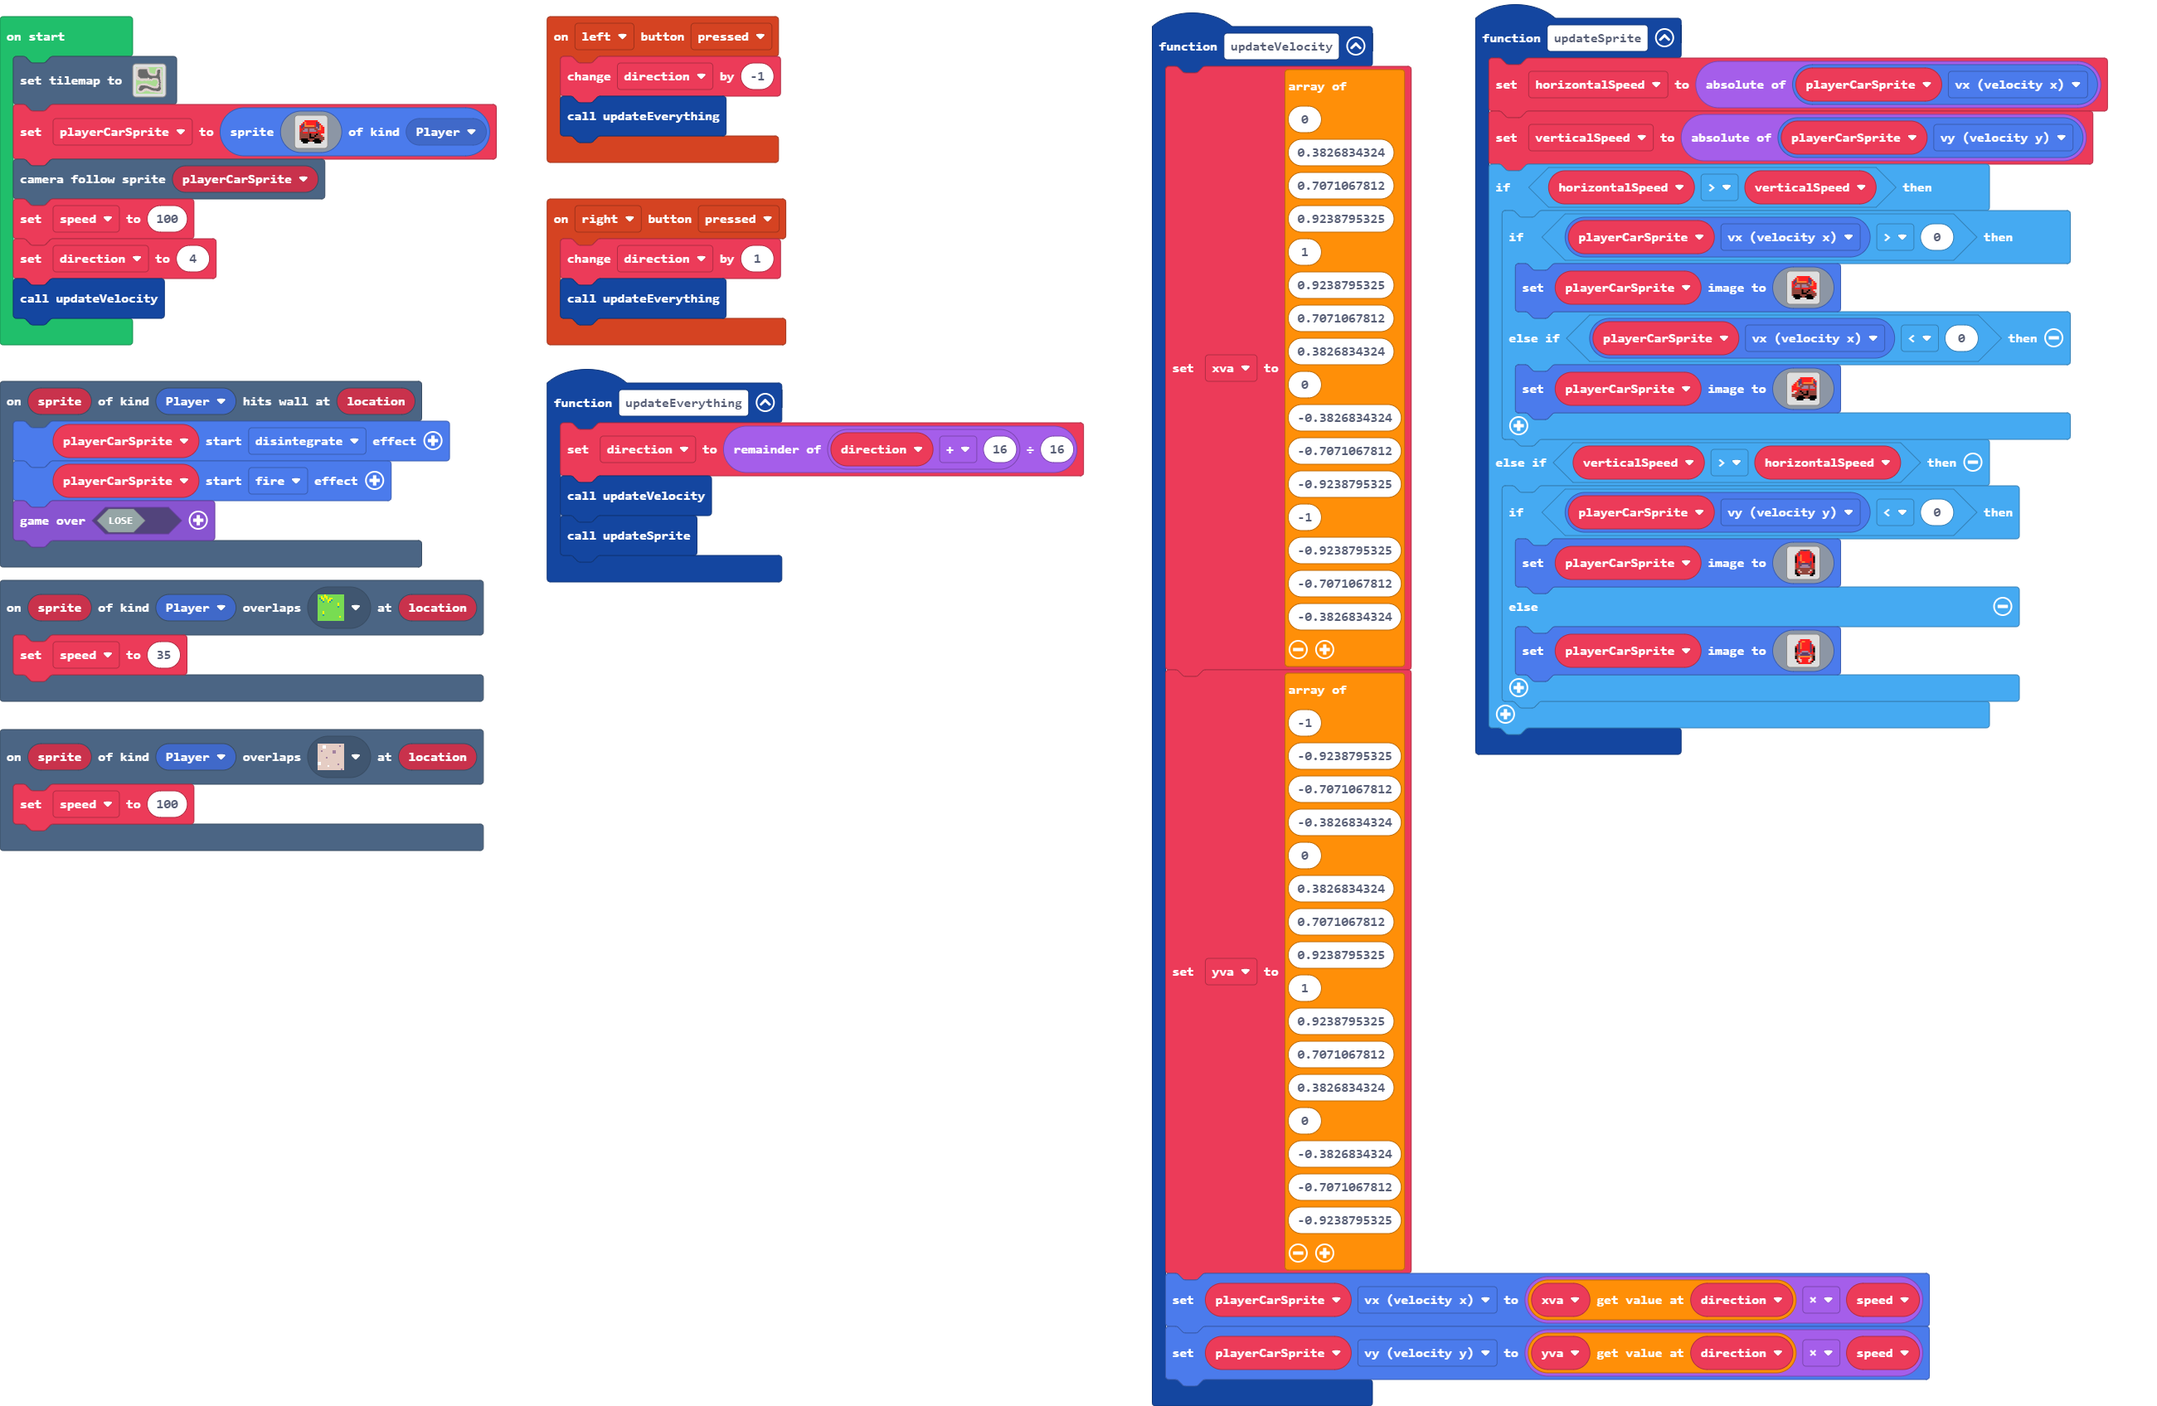
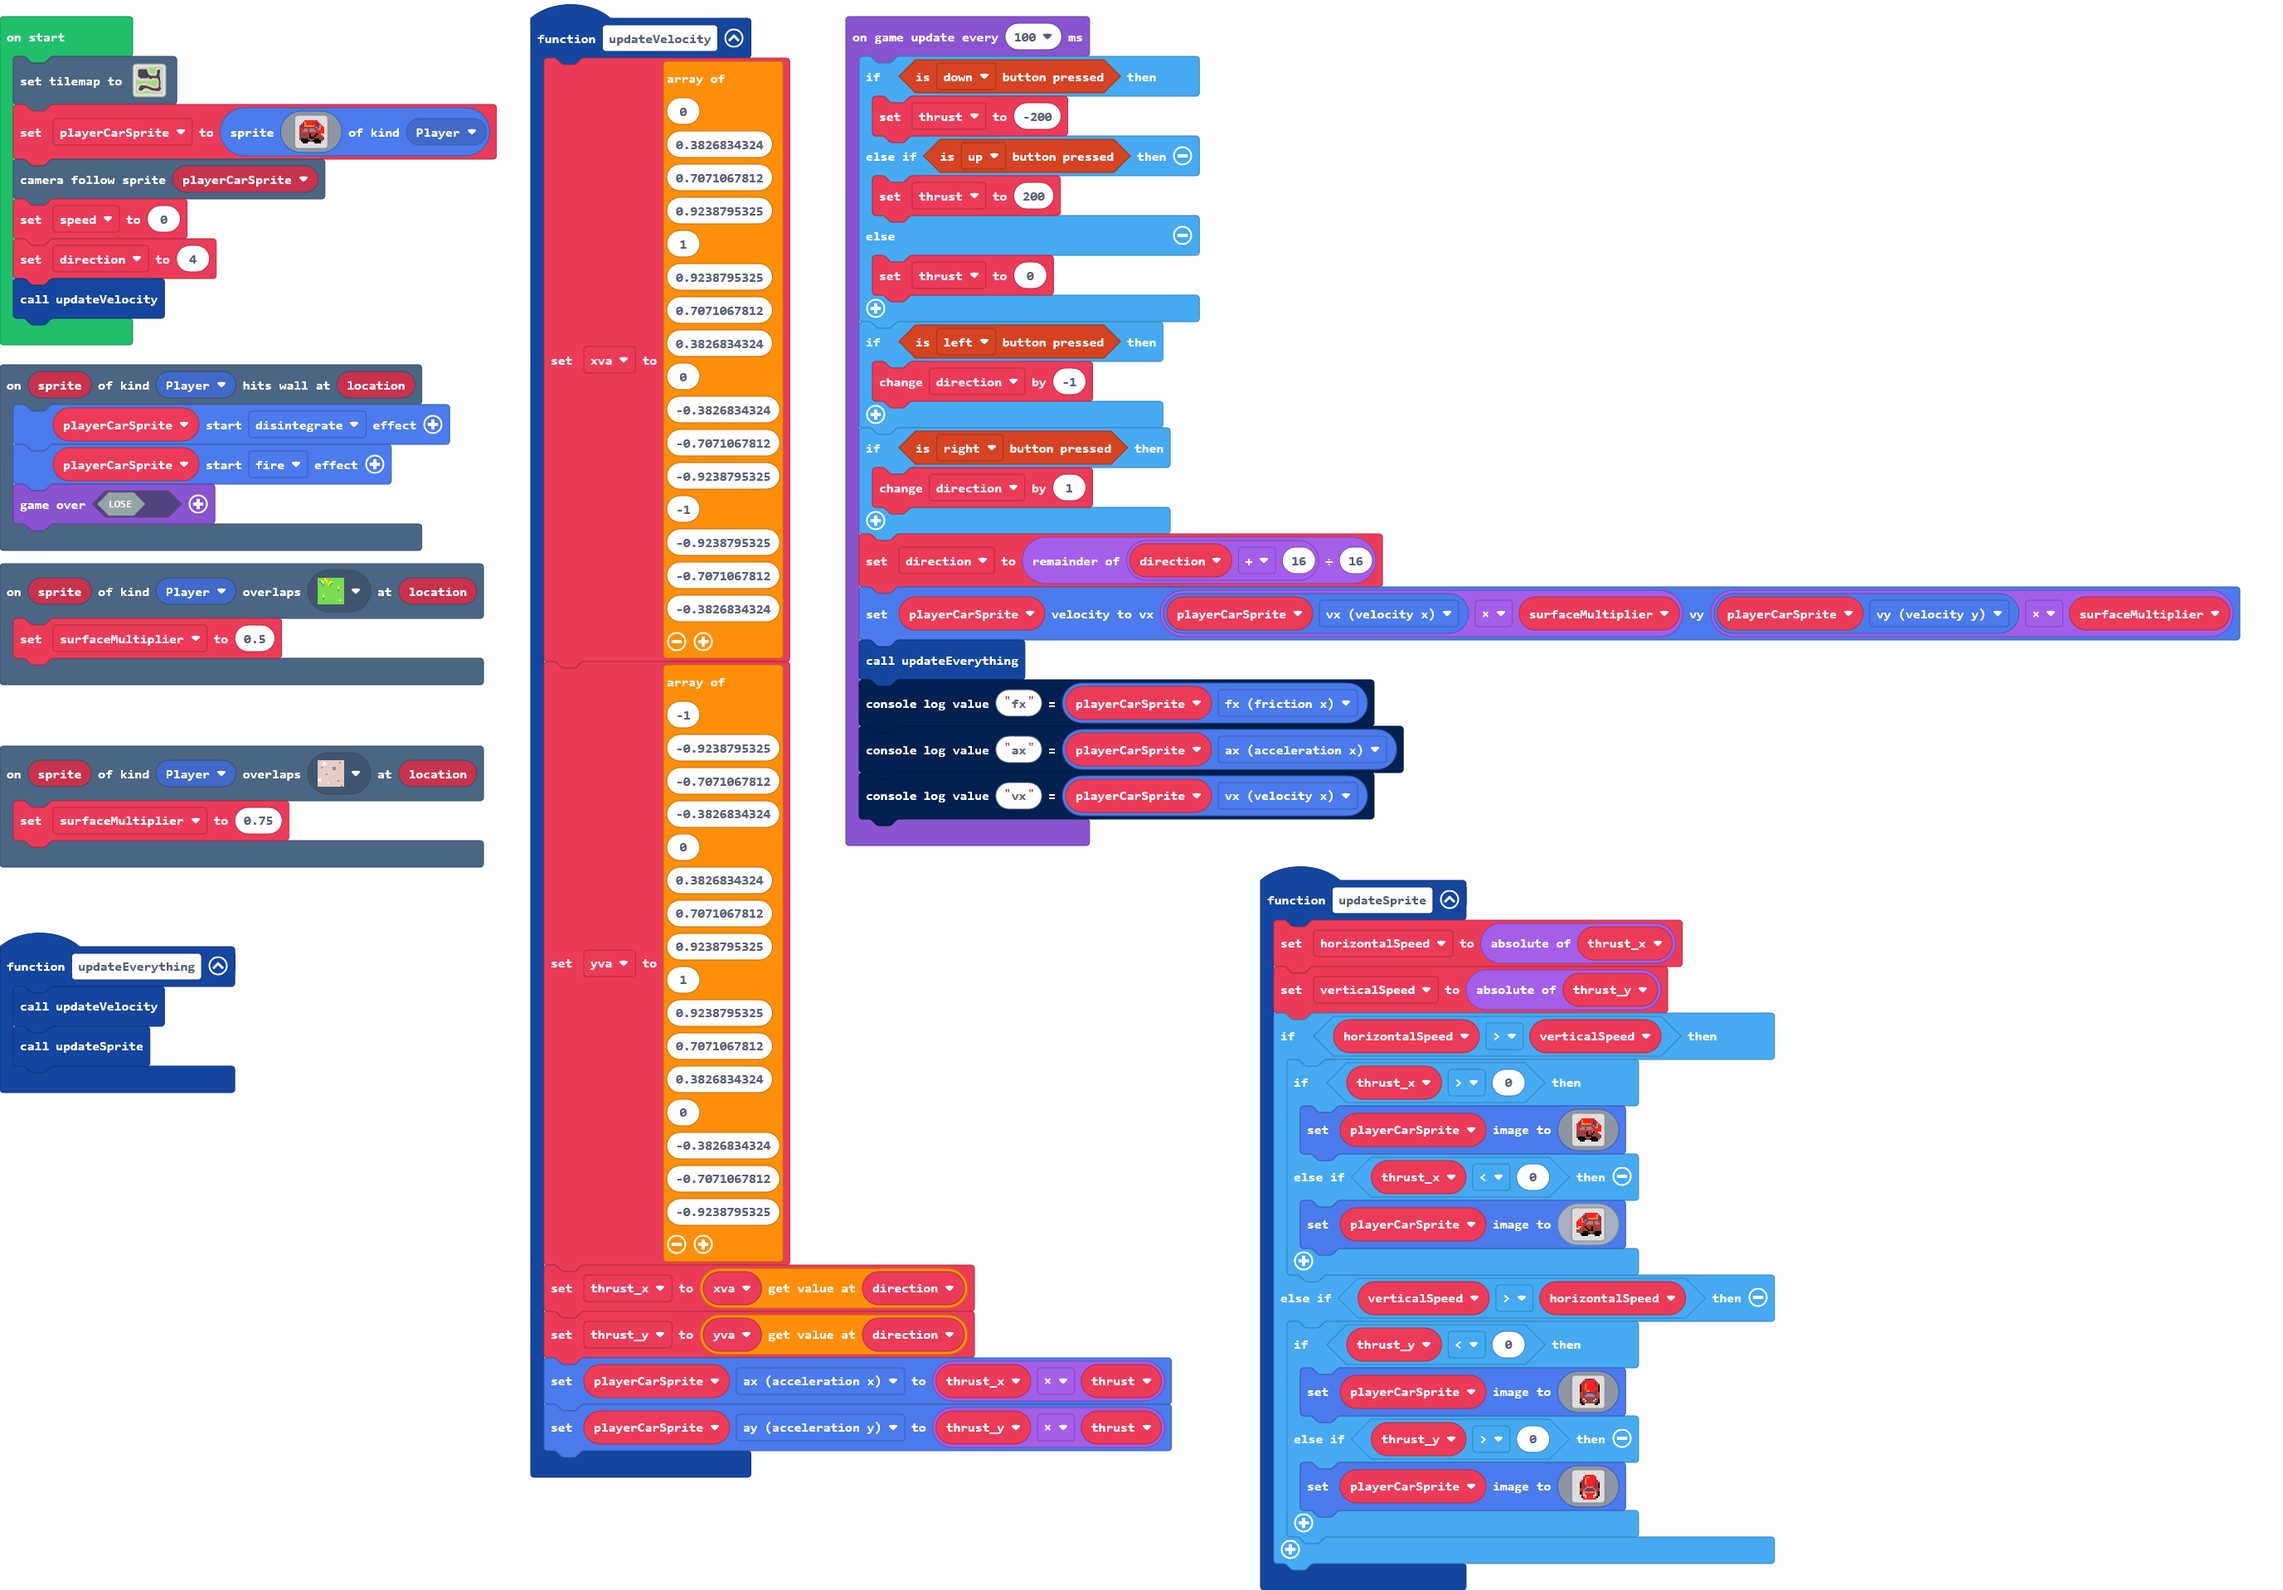
Master (#1)
* Update main.blocks, main.ts, images.g.jres, images.g.ts

* Spaceship physics

* Update main.blocks

diff --git a/images.g.ts b/images.g.ts
@@ -3,6 +3,96 @@ namespace myImages {
 
     helpers._registerFactory("image", function(name: string) {
         switch(helpers.stringTrim(name)) {
+            case "image6":return img`
+. . . . . . . . . . . . . . . . 
+. . . . 2 2 2 2 2 2 2 2 . . . . 
+. . . 2 4 2 2 2 2 2 2 c 2 . . . 
+. . 2 c 4 2 2 2 2 2 2 c c 2 . . 
+. 2 c c 4 4 4 4 4 4 2 c c 4 2 d 
+. 2 c 2 e e e e e e e b c 4 2 2 
+. 2 2 e b b e b b b e e b 4 2 2 
+. 2 e b b b e b b b b e 2 2 2 2 
+. e e 2 2 2 e 2 2 2 2 2 e 2 2 2 
+. e e e e e e f e e e f e 2 d d 
+. e e e e e e f e e f e e e 2 d 
+. e e e e e e f f f e e e e e e 
+. e f f f f e e e e f f f e e e 
+. . f f f f f e e f f f f f e . 
+. . . f f f . . . . f f f f . . 
+. . . . . . . . . . . . . . . . 
+`;
+            case "image7":return img`
+. . . . . . . . . . . . . . . . 
+. . . . 2 2 2 2 2 2 2 2 . . . . 
+. . . 2 4 2 2 2 2 2 2 c 2 . . . 
+. . 2 c 4 2 2 2 2 2 2 c c 2 . . 
+. 2 c c 4 4 4 4 4 4 2 c c 4 2 d 
+. 2 c 2 e e e e e e e b c 4 2 2 
+. 2 2 e b b e b b b e e b 4 2 2 
+. 2 e b b b e b b b b e 2 2 2 2 
+. e e 2 2 2 e 2 2 2 2 2 e 2 2 2 
+. e e e e e e f e e e f e 2 d d 
+. e e e e e e f e e f e e e 2 d 
+. e e e e e e f f f e e e e e e 
+. e f f f f e e e e f f f e e e 
+. . f f f f f e e f f f f f e . 
+. . . f f f . . . . f f f f . . 
+. . . . . . . . . . . . . . . . 
+`;
+            case "image8":return img`
+. . . . . . . . . . . . . . . . 
+. . . . . . 2 2 2 2 2 2 2 2 . . 
+. . . . . 2 c 2 2 2 2 2 2 4 2 . 
+. . . . 2 c c 2 2 2 2 2 2 4 c 2 
+. . d 2 4 c c 2 4 4 4 4 4 4 c c 
+. d 2 2 4 c b e e e e e e e 2 c 
+. 2 2 2 4 b e e b b b e b b e 2 
+. 2 2 2 2 2 e b b b b e b b b e 
+. 2 2 2 2 e 2 2 2 2 2 e 2 2 2 e 
+. 2 d d 2 e f e e e f e e e e e 
+. d d 2 e e e f e e f e e e e e 
+. e e e e e e e f f f e e e e e 
+. e e e e f f f e e e e f f f f 
+. . . e f f f f f e e f f f f f 
+. . . . f f f f . . . . f f f . 
+. . . . . . . . . . . . . . . . 
+`;
+            case "image9":return img`
+. . . . . . e e c c e e . . . . 
+. . . . . e 2 2 2 2 2 2 e . . . 
+. . . . 2 c 2 2 2 2 2 2 c 2 . . 
+. . . e 2 c 4 2 2 2 2 2 c 2 e . 
+. . . f 2 2 4 2 2 2 2 2 c 2 f . 
+. . . f 2 2 4 2 2 2 2 2 2 2 f . 
+. . . f 2 2 4 2 2 2 2 2 2 2 f . 
+. . . f 2 c 2 4 4 2 2 2 c 2 f . 
+. . . e 2 c e c c c c e c 2 e . 
+. . . e 2 e c b b b b c e 2 e . 
+. . . e 2 e b b b b b b e 2 e . 
+. . . e e e e e e e e e e e e . 
+. . . f e d e e e e e e d e f . 
+. . . f e 2 d e e e e d 2 e f . 
+. . . f f e e e e e e e e f f . 
+. . . . f f . . . . . . f f . . 
+`;
+            case "image10":return img`
+. . . . . . . . . . . . . . . . 
+. . . . . . 2 2 2 2 2 2 . . . . 
+. . . . . 2 2 4 4 2 2 2 2 . . . 
+. . . . . c 4 2 2 2 2 2 c . . . 
+. . . . 2 c 4 2 2 2 2 2 c 2 . . 
+. . . e 2 c 4 2 2 2 2 2 c 2 e . 
+. . . f 2 c 4 2 2 2 2 2 c 2 f . 
+. . . f e c 2 2 2 2 2 2 c e f . 
+. . . f 2 c 2 b b b b 2 c 2 f . 
+. . . e 2 2 b c c c c b 2 2 e . 
+. . . e e b c c c c c c b e e . 
+. . . f e 4 4 4 4 4 4 4 4 e f . 
+. . . f e d 2 2 2 2 2 2 d e f . 
+. . . . 2 d d 2 2 2 2 d d 2 f . 
+. . . . f 2 d 2 2 2 2 d 2 f . . 
+. . . . . e 2 2 2 2 2 2 e . . . 
+`;
             case "image1":return img`
 . . . . . . . . . . . . . . . . 
 . . . . 2 2 2 2 2 2 2 2 . . . . 
@@ -93,7 +183,7 @@ namespace myImages {
 . . . . f 2 d 2 2 2 2 d 2 f . . 
 . . . . . e 2 2 2 2 2 2 e . . . 
 `;
-            case "image6":return img`
+            case "image11":return img`
 . . . . . . . . . . . . . . . . 
 . . . . 2 2 2 2 2 2 2 2 . . . . 
 . . . 2 4 2 2 2 2 2 2 c 2 . . . 
@@ -111,7 +201,7 @@ namespace myImages {
 . . . f f f . . . . f f f f . . 
 . . . . . . . . . . . . . . . . 
 `;
-            case "image7":return img`
+            case "image12":return img`
 . . . . . . . . . . . . . . . . 
 . . . . 2 2 2 2 2 2 2 2 . . . . 
 . . . 2 4 2 2 2 2 2 2 c 2 . . . 
@@ -129,7 +219,7 @@ namespace myImages {
 . . . f f f . . . . f f f f . . 
 . . . . . . . . . . . . . . . . 
 `;
-            case "image8":return img`
+            case "image13":return img`
 . . . . . . . . . . . . . . . . 
 . . . . . . 2 2 2 2 2 2 2 2 . . 
 . . . . . 2 c 2 2 2 2 2 2 4 2 . 
@@ -147,7 +237,7 @@ namespace myImages {
 . . . . f f f f . . . . f f f . 
 . . . . . . . . . . . . . . . . 
 `;
-            case "image9":return img`
+            case "image14":return img`
 . . . . . . e e c c e e . . . . 
 . . . . . e 2 2 2 2 2 2 e . . . 
 . . . . 2 c 2 2 2 2 2 2 c 2 . . 
@@ -165,7 +255,7 @@ namespace myImages {
 . . . f f e e e e e e e e f f . 
 . . . . f f . . . . . . f f . . 
 `;
-            case "image10":return img`
+            case "image15":return img`
 . . . . . . . . . . . . . . . . 
 . . . . . . 2 2 2 2 2 2 . . . . 
 . . . . . 2 2 4 4 2 2 2 2 . . . 
@@ -182,6 +272,114 @@ namespace myImages {
 . . . . 2 d d 2 2 2 2 d d 2 f . 
 . . . . f 2 d 2 2 2 2 d 2 f . . 
 . . . . . e 2 2 2 2 2 2 e . . . 
+`;
+            case "image16":return img`
+. . . . . . . . . . . . . . . . 
+. . . . 2 2 2 2 2 2 2 2 . . . . 
+. . . 2 4 2 2 2 2 2 2 c 2 . . . 
+. . 2 c 4 2 2 2 2 2 2 c c 2 . . 
+. 2 c c 4 4 4 4 4 4 2 c c 4 2 d 
+. 2 c 2 e e e e e e e b c 4 2 2 
+. 2 2 e b b e b b b e e b 4 2 2 
+. 2 e b b b e b b b b e 2 2 2 2 
+. e e 2 2 2 e 2 2 2 2 2 e 2 2 2 
+. e e e e e e f e e e f e 2 d d 
+. e e e e e e f e e f e e e 2 d 
+. e e e e e e f f f e e e e e e 
+. e f f f f e e e e f f f e e e 
+. . f f f f f e e f f f f f e . 
+. . . f f f . . . . f f f f . . 
+. . . . . . . . . . . . . . . . 
+`;
+            case "image17":return img`
+. . . . . . . . . . . . . . . . 
+. . . . 2 2 2 2 2 2 2 2 . . . . 
+. . . 2 4 2 2 2 2 2 2 c 2 . . . 
+. . 2 c 4 2 2 2 2 2 2 c c 2 . . 
+. 2 c c 4 4 4 4 4 4 2 c c 4 2 d 
+. 2 c 2 e e e e e e e b c 4 2 2 
+. 2 2 e b b e b b b e e b 4 2 2 
+. 2 e b b b e b b b b e 2 2 2 2 
+. e e 2 2 2 e 2 2 2 2 2 e 2 2 2 
+. e e e e e e f e e e f e 2 d d 
+. e e e e e e f e e f e e e 2 d 
+. e e e e e e f f f e e e e e e 
+. e f f f f e e e e f f f e e e 
+. . f f f f f e e f f f f f e . 
+. . . f f f . . . . f f f f . . 
+. . . . . . . . . . . . . . . . 
+`;
+            case "image19":return img`
+. . . . . . e e c c e e . . . . 
+. . . . . e 2 2 2 2 2 2 e . . . 
+. . . . 2 c 2 2 2 2 2 2 c 2 . . 
+. . . e 2 c 4 2 2 2 2 2 c 2 e . 
+. . . f 2 2 4 2 2 2 2 2 c 2 f . 
+. . . f 2 2 4 2 2 2 2 2 2 2 f . 
+. . . f 2 2 4 2 2 2 2 2 2 2 f . 
+. . . f 2 c 2 4 4 2 2 2 c 2 f . 
+. . . e 2 c e c c c c e c 2 e . 
+. . . e 2 e c b b b b c e 2 e . 
+. . . e 2 e b b b b b b e 2 e . 
+. . . e e e e e e e e e e e e . 
+. . . f e d e e e e e e d e f . 
+. . . f e 2 d e e e e d 2 e f . 
+. . . f f e e e e e e e e f f . 
+. . . . f f . . . . . . f f . . 
+`;
+            case "image20":return img`
+. . . . . . . . . . . . . . . . 
+. . . . . . 2 2 2 2 2 2 . . . . 
+. . . . . 2 2 4 4 2 2 2 2 . . . 
+. . . . . c 4 2 2 2 2 2 c . . . 
+. . . . 2 c 4 2 2 2 2 2 c 2 . . 
+. . . e 2 c 4 2 2 2 2 2 c 2 e . 
+. . . f 2 c 4 2 2 2 2 2 c 2 f . 
+. . . f e c 2 2 2 2 2 2 c e f . 
+. . . f 2 c 2 b b b b 2 c 2 f . 
+. . . e 2 2 b c c c c b 2 2 e . 
+. . . e e b c c c c c c b e e . 
+. . . f e 4 4 4 4 4 4 4 4 e f . 
+. . . f e d 2 2 2 2 2 2 d e f . 
+. . . . 2 d d 2 2 2 2 d d 2 f . 
+. . . . f 2 d 2 2 2 2 d 2 f . . 
+. . . . . e 2 2 2 2 2 2 e . . . 
+`;
+            case "image21":return img`
+. . . . . . . . . . . . . . . . 
+. . . . . . 2 2 2 2 2 2 2 2 . . 
+. . . . . 2 c 2 2 2 2 2 2 4 2 . 
+. . . . 2 c c 2 2 2 2 2 2 4 c 2 
+. . d 2 4 c c 2 4 4 4 4 4 4 c c 
+. d 2 2 4 c b e e e e e e e 2 c 
+. 2 2 2 4 b e e b b b e b b e 2 
+. 2 2 2 2 2 e b b b b e b b b e 
+. 2 2 2 2 e 2 2 2 2 2 e 2 2 2 e 
+. 2 d d 2 e f e e e f e e e e e 
+. d d 2 e e e f e e f e e e e e 
+. e e e e e e e f f f e e e e e 
+. e e e e f f f e e e e f f f f 
+. . . e f f f f f e e f f f f f 
+. . . . f f f f . . . . f f f . 
+. . . . . . . . . . . . . . . . 
+`;
+            case "image18":return img`
+. . . . . . . . . . . . . . . . 
+. . . . . . 2 2 2 2 2 2 2 2 . . 
+. . . . . 2 c 2 2 2 2 2 2 4 2 . 
+. . . . 2 c c 2 2 2 2 2 2 4 c 2 
+. . d 2 4 c c 2 4 4 4 4 4 4 c c 
+. d 2 2 4 c b e e e e e e e 2 c 
+. 2 2 2 4 b e e b b b e b b e 2 
+. 2 2 2 2 2 e b b b b e b b b e 
+. 2 2 2 2 e 2 2 2 2 2 e 2 2 2 e 
+. 2 d d 2 e f e e e f e e e e e 
+. d d 2 e e e f e e f e e e e e 
+. e e e e e e e f f f e e e e e 
+. e e e e f f f e e e e f f f f 
+. . . e f f f f f e e f f f f f 
+. . . . f f f f . . . . f f f . 
+. . . . . . . . . . . . . . . . 
 `;
         }
         return null;

diff --git a/main.ts b/main.ts
@@ -3,10 +3,6 @@ scene.onHitWall(SpriteKind.Player, function (sprite, location) {
     playerCarSprite.startEffect(effects.fire)
     game.over(false)
 })
-controller.left.onEvent(ControllerButtonEvent.Pressed, function () {
-    direction += -1
-    updateEverything()
-})
 function updateVelocity () {
     xva = [
     0,
@@ -44,21 +40,19 @@ function updateVelocity () {
     -0.7071067812,
     -0.9238795325
     ]
-    playerCarSprite.vx = xva[direction] * speed
-    playerCarSprite.vy = yva[direction] * speed
+    thrust_x = xva[direction]
+    thrust_y = yva[direction]
+    playerCarSprite.ax = thrust_x * thrust
+    playerCarSprite.ay = thrust_y * thrust
 }
-controller.right.onEvent(ControllerButtonEvent.Pressed, function () {
-    direction += 1
-    updateEverything()
-})
 scene.onOverlapTile(SpriteKind.Player, sprites.castle.tilePath5, function (sprite, location) {
-    speed = 100
+    surfaceMultiplier = 0.75
 })
 function updateSprite () {
-    horizontalSpeed = Math.abs(playerCarSprite.vx)
-    verticalSpeed = Math.abs(playerCarSprite.vy)
+    horizontalSpeed = Math.abs(thrust_x)
+    verticalSpeed = Math.abs(thrust_y)
     if (horizontalSpeed > verticalSpeed) {
-        if (playerCarSprite.vx > 0) {
+        if (thrust_x > 0) {
             playerCarSprite.setImage(img`
                 . . . . . . . . . . . . . . . . 
                 . . . . 2 2 2 2 2 2 2 2 . . . . 
@@ -77,7 +71,7 @@ function updateSprite () {
                 . . . f f f . . . . f f f f . . 
                 . . . . . . . . . . . . . . . . 
                 `)
-        } else if (playerCarSprite.vx < 0) {
+        } else if (thrust_x < 0) {
             playerCarSprite.setImage(img`
                 . . . . . . . . . . . . . . . . 
                 . . . . . . 2 2 2 2 2 2 2 2 . . 
@@ -98,7 +92,7 @@ function updateSprite () {
                 `)
         }
     } else if (verticalSpeed > horizontalSpeed) {
-        if (playerCarSprite.vy < 0) {
+        if (thrust_y < 0) {
             playerCarSprite.setImage(img`
                 . . . . . . e e c c e e . . . . 
                 . . . . . e 2 2 2 2 2 2 e . . . 
@@ -117,7 +111,7 @@ function updateSprite () {
                 . . . f f e e e e e e e e f f . 
                 . . . . f f . . . . . . f f . . 
                 `)
-        } else {
+        } else if (thrust_y > 0) {
             playerCarSprite.setImage(img`
                 . . . . . . . . . . . . . . . . 
                 . . . . . . 2 2 2 2 2 2 . . . . 
@@ -140,19 +134,21 @@ function updateSprite () {
     }
 }
 scene.onOverlapTile(SpriteKind.Player, sprites.castle.tileGrass1, function (sprite, location) {
-    speed = 35
+    surfaceMultiplier = 0.5
 })
 function updateEverything () {
-    direction = (direction + 16) % 16
     updateVelocity()
     updateSprite()
 }
 let verticalSpeed = 0
 let horizontalSpeed = 0
+let surfaceMultiplier = 0
+let thrust = 0
+let thrust_y = 0
+let thrust_x = 0
 let yva: number[] = []
 let xva: number[] = []
 let direction = 0
-let speed = 0
 let playerCarSprite: Sprite = null
 tiles.setTilemap(tilemap`level`)
 playerCarSprite = sprites.create(img`
@@ -174,6 +170,27 @@ playerCarSprite = sprites.create(img`
     . . . . . . . . . . . . . . . . 
     `, SpriteKind.Player)
 scene.cameraFollowSprite(playerCarSprite)
-speed = 100
+let speed = 0
 direction = 4
 updateVelocity()
+game.onUpdateInterval(100, function () {
+    if (controller.down.isPressed()) {
+        thrust = -200
+    } else if (controller.up.isPressed()) {
+        thrust = 200
+    } else {
+        thrust = 0
+    }
+    if (controller.left.isPressed()) {
+        direction += -1
+    }
+    if (controller.right.isPressed()) {
+        direction += 1
+    }
+    direction = (direction + 16) % 16
+    playerCarSprite.setVelocity(playerCarSprite.vx * surfaceMultiplier, playerCarSprite.vy * surfaceMultiplier)
+    updateEverything()
+    console.logValue("fx", playerCarSprite.fx)
+    console.logValue("ax", playerCarSprite.ax)
+    console.logValue("vx", playerCarSprite.vx)
+})
